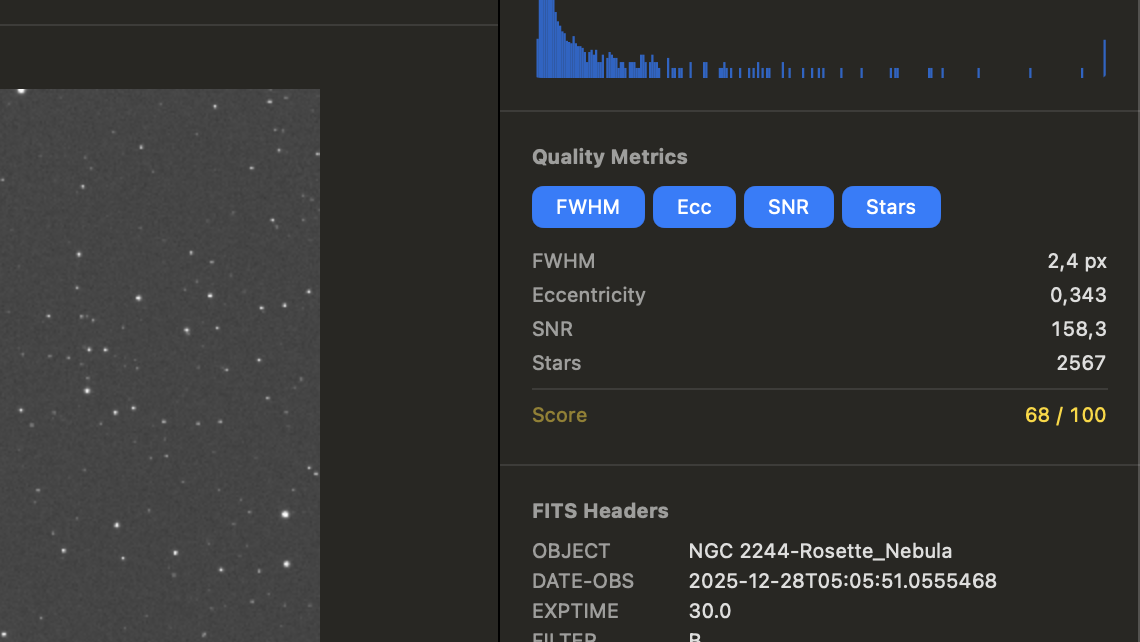
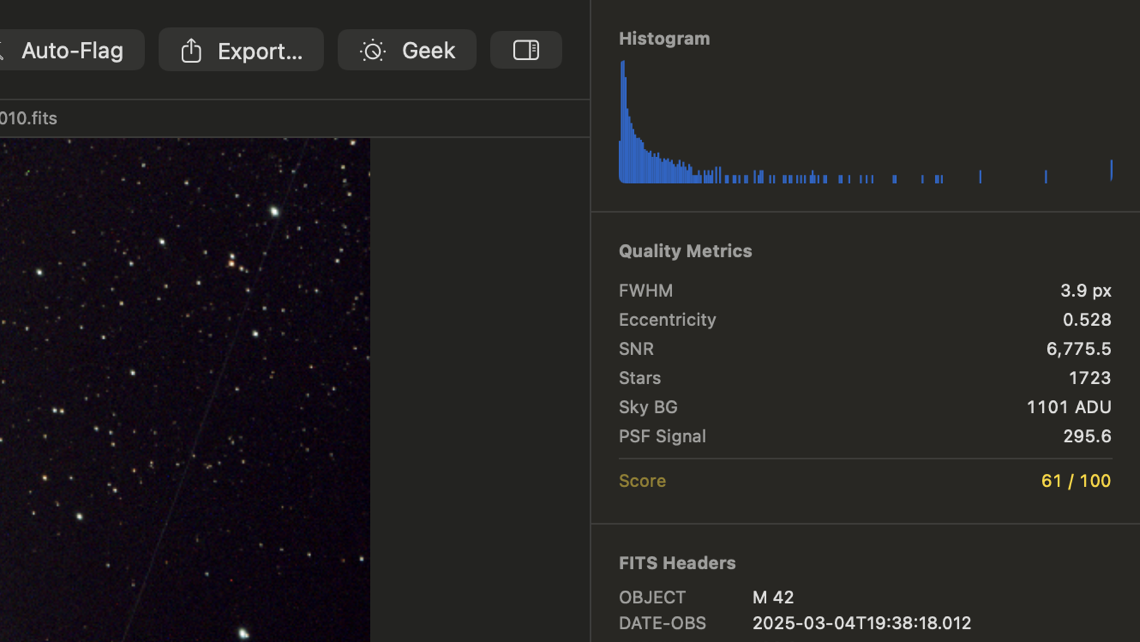
Home page: new screenshots for 1.24
Main window, session chart, sidebar and Inspector taken anew with the
1.24 App Store build; the chart's alt text says dots coloured by filter
instead of colour-coded bars.

diff --git a/site/index.html b/site/index.html
@@ -376,7 +376,7 @@
 
 <section class="screenshots">
     <figure>
-        <img src="screenshot-chart.png" alt="Session chart showing quality metrics per frame with colour-coded bars">
+        <img src="screenshot-chart.png" alt="Session chart showing the score per frame, with dots coloured by filter">
         <figcaption>Session chart with drag-to-select</figcaption>
     </figure>
     <figure>

diff --git a/CHANGELOG.md b/CHANGELOG.md
@@ -12,6 +12,7 @@ All notable changes to FITS Blaster are recorded here.
 - **Keyboard shortcuts:** a Zoom & Pan section, ⌘N Main Window, the right-click menu, ⌘-click and Open Folder as in 1.24.
 - **Guide, privacy policy, home page:** the folder panel, the current-frame dot, zoom keys, WBPP and the optional `.rejected` rename; the home page lists the WBPP rename and CSV export among the core features.
 - **FAQ speed tables measured anew** with 1.24 on a MacBook Air M1 (16 GB), default settings, disk cache cleared before each run, middle of three runs: 592 colour frames (IMX571) load in 11.3 s (greyscale + Simple) to 25.4 s (colour + Geek), against 28–121 s before; 464 mono frames (IMX585) in 6.8–9.2 s. The tables give time, peak memory and memory after loading. A third table for a Mac Studio M1 Ultra (64 GB): 6.7–7.6 s for the colour set, 2.7–3.1 s for the mono set; from an external Thunderbolt SSD 9.0–9.5 s and 3.1–3.5 s, in a second time column. The text says what sets the pace: on the MacBook Air the SSD in greyscale + Simple and the processor in Geek and colour, on the Mac Studio the disk in every mode.
+- **Home page screenshots taken anew with 1.24:** the main window (M42 in colour, Geek mode), the session chart with dots coloured by filter (SH2-72 in Ha, OIII and SII), the sidebar with filter buttons and rejected frames, and the Inspector with all six metrics and the score. The chart image's description says dots instead of bars.
 
 ---
 
